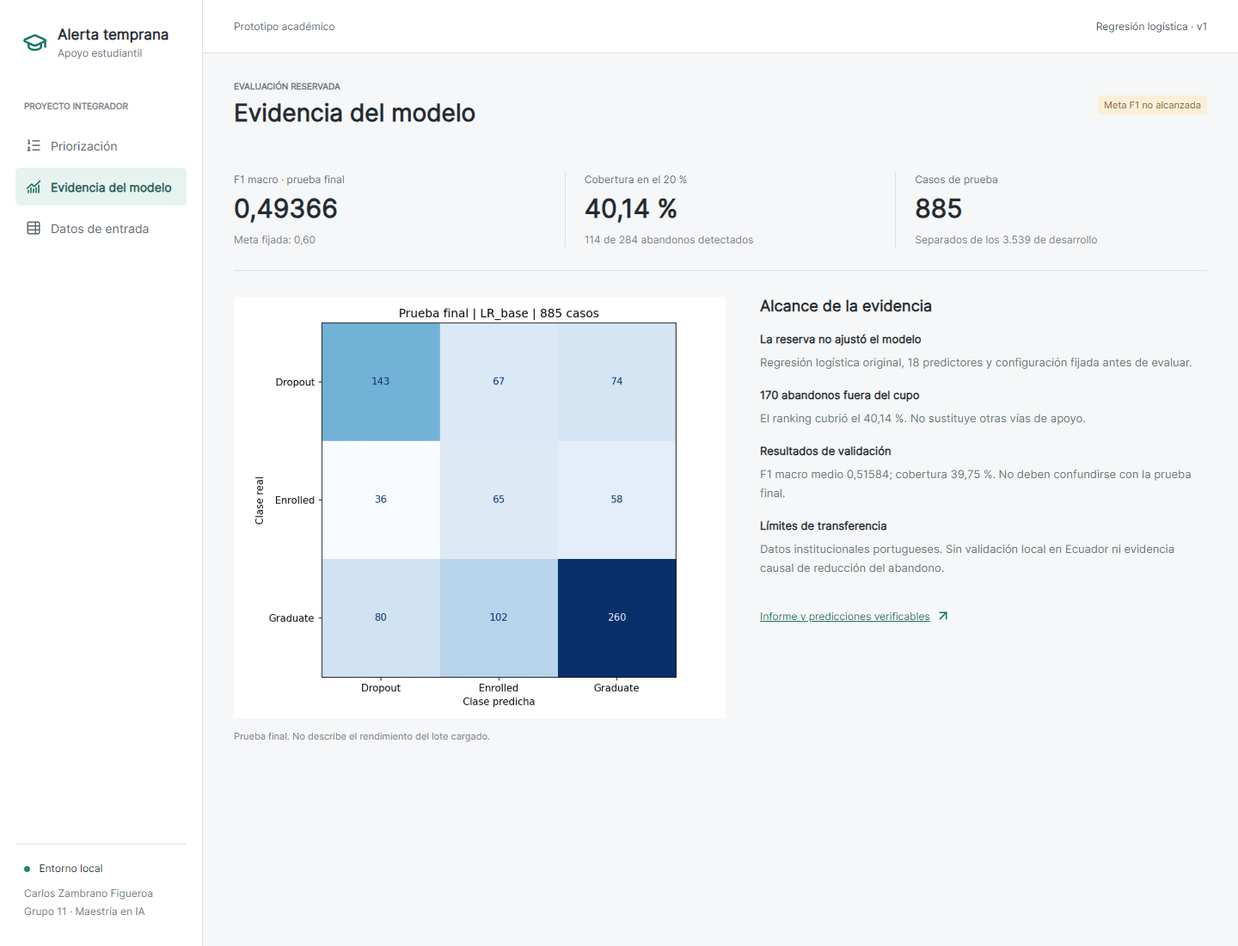
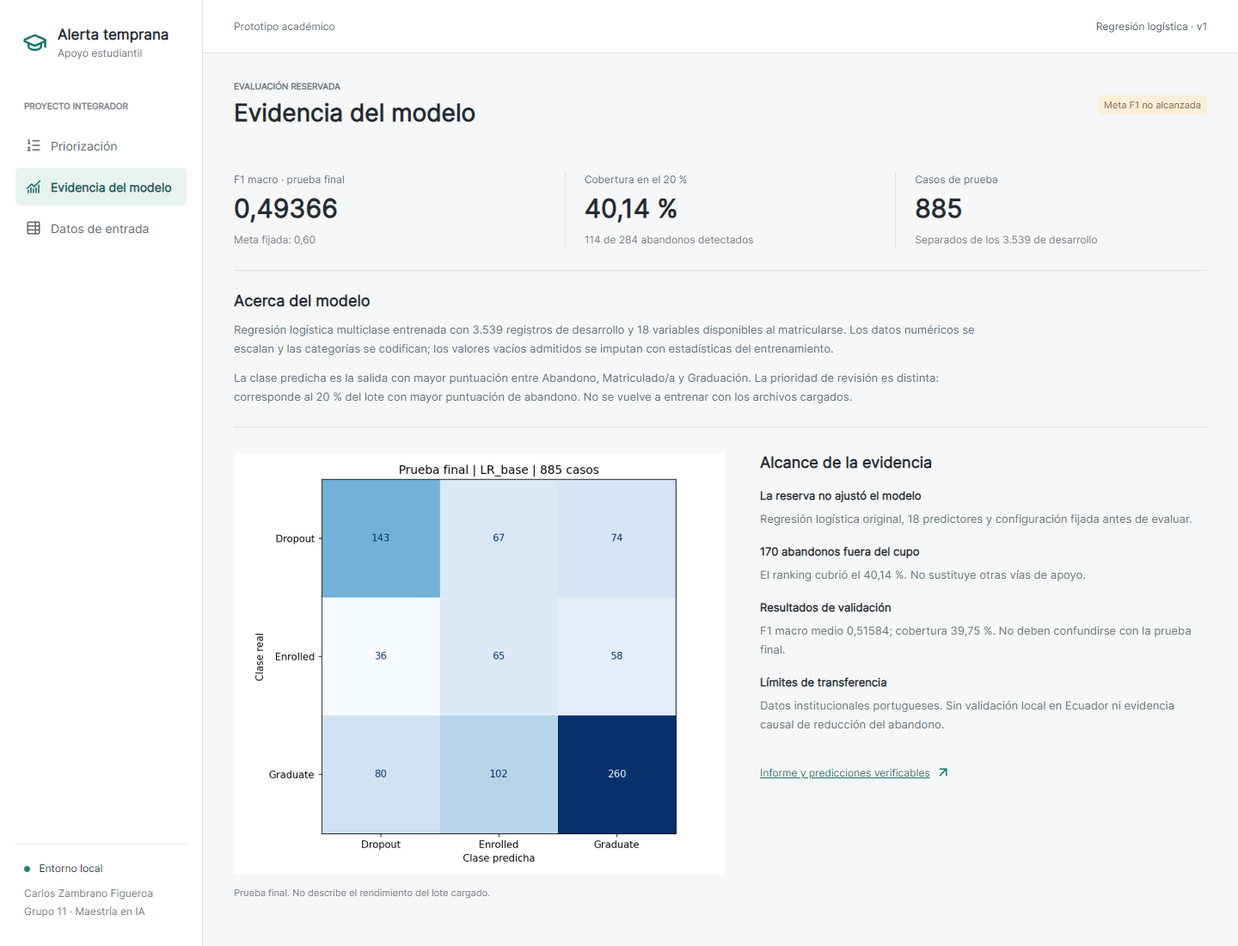
Aclara clase predicha y prepara tres casos verificables de demostracion

diff --git a/app/assets/app.css b/app/assets/app.css
@@ -1,6 +1,7 @@
 :root{font-family:Inter,Segoe UI,Arial,sans-serif;color:#252a30;background:#f5f7f8;font-size:14px;letter-spacing:0;--green:#137568;--border:#dce2e5}
 *{box-sizing:border-box}body{margin:0}button,input,a{font:inherit}button,a,input{ -webkit-tap-highlight-color:transparent}button,a{touch-action:manipulation}button{cursor:pointer}button:disabled{opacity:.4;cursor:default}button:focus-visible,a:focus-visible,input:focus-visible{outline:3px solid #4fa59b;outline-offset:3px}[hidden]{display:none!important}a{color:inherit}svg{width:18px;height:18px;flex-shrink:0}h1,h2,h3,p{margin:0}h1{font-size:28px;font-weight:650;line-height:1.25}h2{font-size:18px;font-weight:650}h3{font-size:15px}small{font-size:12px}.sidebar{position:fixed;inset:0 auto 0 0;width:236px;background:#fff;border-right:1px solid var(--border);padding:30px 18px;display:flex;flex-direction:column;z-index:2}.brand{display:flex;align-items:center;gap:12px;text-decoration:none;font-size:17px;font-weight:700;padding:0 8px}.brand>svg{width:29px;height:29px;color:var(--green)}.brand small{display:block;font-weight:400;color:#6d747d;margin-top:4px}.workspace{font-size:10px;font-weight:700;color:#7c848b;margin:48px 10px 14px}.nav{width:100%;border:0;background:transparent;color:#606971;display:flex;align-items:center;gap:11px;padding:13px 12px;text-align:left;border-radius:5px;margin:4px 0}.nav.active{background:#e7f3ef;color:#126457;font-weight:600}.sidebar-footer{margin-top:auto;padding:20px 10px 0;border-top:1px solid var(--border);font-size:12px}.sidebar-footer small{display:block;color:#747c83;line-height:1.7;margin-top:12px}.local-dot{display:inline-block;width:7px;height:7px;background:#268272;border-radius:50%;margin-right:7px}main{margin-left:236px}.topbar{height:62px;border-bottom:1px solid var(--border);padding:0 36px;display:flex;align-items:center;justify-content:space-between;background:#fff;color:#667079;font-size:12px}.version{color:#49535c}.view{max-width:1500px;padding:32px 36px 24px;margin:auto}.page-heading{display:flex;justify-content:space-between;align-items:center;gap:16px;margin-bottom:24px}.eyebrow{font-size:10px;font-weight:700;color:#68767c;margin-bottom:8px}.primary,.secondary{display:inline-flex;align-items:center;justify-content:center;gap:8px;padding:10px 14px;border:1px solid transparent;border-radius:5px;text-decoration:none;min-height:40px;font-weight:600;font-size:13px;white-space:normal;text-align:center}.primary{background:var(--green);color:#fff}.primary:hover{background:#105d53}.secondary{background:white;border-color:#ccd5d9;color:#3e4d55}.secondary:hover{background:#edf3f3}.notice{display:flex;align-items:flex-start;gap:10px;background:#f0f5f4;border-left:3px solid #6a9b90;padding:13px 16px;font-size:12px;line-height:1.6;color:#506360}.notice>svg{margin-top:1px}.notice strong{color:#344f48}.upload-band{display:flex;align-items:center;justify-content:space-between;gap:20px;padding:23px 0;border-bottom:1px solid var(--border)}.file-control{min-width:0;flex:1}.file-control label{font-size:12px;font-weight:600;display:block;margin-bottom:9px}.file-control input{max-width:100%;font-size:12px;color:#616b72}.file-control input::file-selector-button{border:1px solid #cbd5d9;background:white;padding:7px 10px;border-radius:4px;margin-right:10px;color:#34454c;cursor:pointer}.file-control small{display:block;color:#727c84;line-height:1.5;margin-top:9px}.metrics{display:grid;grid-template-columns:repeat(3,minmax(0,1fr));padding:26px 0;border-bottom:1px solid var(--border);gap:22px}.metrics>div{min-width:0;padding-left:22px;border-left:1px solid var(--border)}.metrics>div:first-child{padding-left:0;border:0}.metrics span{color:#64717b;font-size:12px}.metrics strong{font-size:30px;line-height:1.25;font-weight:600;display:block;margin:8px 0}.metrics small{display:block;color:#7a848a;line-height:1.5}.section-heading{display:flex;justify-content:space-between;align-items:center;gap:15px;padding:26px 0 18px}.section-heading p{font-size:12px;color:#7a848a;margin-top:6px}.actions{display:flex;gap:8px;align-items:center}.icon-button{width:34px;height:34px;display:inline-flex;align-items:center;justify-content:center;background:#fff;color:#55636b;border:1px solid #d6dee2;border-radius:4px;flex-shrink:0}.icon-button:hover:not(:disabled){background:#edf3f2}.table-tools{display:flex;align-items:center;gap:20px;padding:0 0 15px}.search{display:flex;align-items:center;gap:8px;border:1px solid #d7dfe2;background:#fff;padding:9px 11px;border-radius:4px;width:240px;color:#829097}.search input{width:100%;min-width:0;outline:none;border:0;background:transparent;font-size:12px}.check{display:flex;align-items:center;gap:6px;font-size:12px;color:#56656e}.check input{accent-color:var(--green)}#visible-count{margin-left:auto;color:#7a848a;font-size:12px}.table-scroll{overflow-x:auto;border:1px solid var(--border);background:#fff;border-radius:4px}table{border-collapse:collapse;width:100%;font-size:12px;text-align:left;white-space:nowrap}th{background:#f0f3f4;font-weight:600;color:#65737d;font-size:11px;padding:13px 16px;border-bottom:1px solid var(--border)}td{padding:12px 16px;border-bottom:1px solid #edf0f2;height:57px}tr:last-child td{border-bottom:0}tbody tr:hover{background:#f7faf9}tr.priority{background:#f2f9f5}td small{display:block;color:#8a949b;margin-top:3px;font-size:10px}.rank{color:#929ca3;font-variant-numeric:tabular-nums}.case-id{font-weight:600;color:#364850}.score{display:flex;align-items:center;gap:12px;font-variant-numeric:tabular-nums}.score progress{width:68px;height:5px;accent-color:#248673;border:0;border-radius:2px;background:#e6eeeb}.score progress::-webkit-progress-bar{background:#e6eeeb;border-radius:2px}.score progress::-webkit-progress-value{background:#248673;border-radius:2px}.badge{display:inline-flex;align-items:center;gap:5px;font-size:11px;padding:4px 7px;border-radius:3px;background:#e1f0e8;color:#356951}.badge.neutral{background:#f0f2f3;color:#7b858c}.badge.warning{background:#faf0d8;color:#8b641e}.pagination{display:flex;align-items:center;justify-content:space-between;padding:15px 0;color:#7c878f;font-size:12px}.pagination>div{display:flex;gap:6px}.footnote{font-size:11px;color:#7c858e;line-height:1.7;margin-top:8px}.empty{padding:36px;text-align:center;border-bottom:1px solid var(--border);color:#8c959c}.empty svg{width:28px;height:28px;margin-bottom:12px}.message,.warnings{padding:12px 16px;margin-top:16px;font-size:12px;line-height:1.6;border-radius:4px;background:#edf3f8;color:#405d73}.message.error{background:#fae9e8;color:#a33b36}.warnings{background:#fff3dc;color:#865f24}.warnings ul{margin:0;padding-left:16px}.evidence-layout{display:grid;grid-template-columns:minmax(0,1.1fr) minmax(260px,1fr);gap:40px;padding:30px 0}.evidence-layout figure{margin:0}.evidence-layout img{width:100%;height:auto;display:block}.evidence-layout figcaption{font-size:11px;color:#78828a;margin-top:14px}.findings h2{margin-bottom:20px}dt{font-weight:600;font-size:13px;margin-top:19px}dd{margin:8px 0 0;line-height:1.7;color:#6a7780;font-size:13px}.text-link{display:inline-flex;gap:6px;align-items:center;font-size:12px;color:var(--green);margin-top:22px}.data-rules{display:grid;grid-template-columns:1fr 1fr;gap:30px;padding:28px 0}.data-rules p{font-size:13px;color:#71808a;line-height:1.7;margin-top:12px}#data td{white-space:normal;overflow-wrap:anywhere}#data td:nth-child(2){font-family:Consolas,monospace;font-size:11px}.sr-only{position:absolute;width:1px;height:1px;overflow:hidden;clip:rect(0,0,0,0)}dialog{width:min(640px,calc(100% - 24px));max-height:90vh;border:1px solid #dce3e5;border-radius:7px;padding:26px;color:#29373d}dialog::backdrop{background:#1b293c77}dialog header{display:flex;justify-content:space-between;align-items:center}.detail-disclaimer{font-size:12px;color:#7b6d51;line-height:1.5;margin:18px 0}.score-list{display:flex;gap:24px;padding:16px 0 24px}.score-list span{display:block;font-size:12px;color:#6c7c84}.score-list strong{font-size:22px;display:block;margin-top:7px}.feature-list{display:grid;grid-template-columns:1fr auto;margin:10px 0}.feature-list dt,.feature-list dd{border-bottom:1px solid #e6ecee;padding:9px 0;margin:0;font-size:12px}.feature-list dd{font-variant-numeric:tabular-nums;text-align:right}.feature-list dt{font-weight:400;color:#6a7780}
 .table-scroll{position:relative}
+.model-description{padding:24px 0;border-bottom:1px solid var(--border)}.model-description p{max-width:900px;font-size:13px;line-height:1.7;color:#63727b;margin-top:12px}.prediction-summary{display:grid;grid-template-columns:1fr 1fr;gap:20px;padding:20px 0 16px;border-bottom:1px solid var(--border)}.prediction-summary span{display:block;font-size:12px;color:#6a7780}.prediction-summary strong{display:block;font-size:17px;margin-top:8px;overflow-wrap:anywhere}.example-downloads{padding:0 0 24px}.example-downloads h2{margin-bottom:14px}
 @media(min-width:1550px){.view{padding-left:52px;padding-right:52px}}
 @media(max-width:1050px){.sidebar{width:205px;padding:26px 12px}.brand{font-size:15px}main{margin-left:205px}.view{padding:25px 23px}.topbar{padding:0 23px}.page-heading{align-items:flex-start}.page-heading .secondary{font-size:12px}.table-tools{gap:12px}h1{font-size:25px}.evidence-layout{gap:24px}}
 @media(max-width:760px){.sidebar{position:static;width:100%;padding:15px 16px 0;border-right:0;border-bottom:1px solid var(--border)}.brand{padding:0;font-size:16px}.brand small{display:inline;margin-left:9px}.brand>svg{width:25px;height:25px}.workspace,.sidebar-footer{display:none}nav{display:flex;margin-top:16px;gap:5px;overflow:auto}.nav{justify-content:center;flex:1;min-width:0;margin:0;border-radius:4px 4px 0 0;font-size:11px;padding:11px 7px;gap:6px}.nav svg{width:16px;height:16px}.nav.active{border-bottom:2px solid var(--green)}main{margin:0}.topbar{height:40px;padding:0 16px;font-size:10px}.view{padding:24px 16px}.page-heading{flex-direction:column;gap:16px;margin-bottom:18px}h1{font-size:25px}.page-heading>button{align-self:flex-start}.notice{font-size:11px;padding:12px}.upload-band{flex-direction:column;align-items:stretch;gap:14px}.upload-band .primary{align-self:flex-start}.metrics{gap:10px;padding:20px 0}.metrics>div{padding-left:10px}.metrics span{font-size:10px}.metrics strong{font-size:25px}.metrics small{font-size:10px}.table-tools{flex-wrap:wrap;gap:12px}.search{width:100%}.check{flex:1}#visible-count{font-size:11px}th,td{padding-left:12px;padding-right:12px}.evidence-layout,.data-rules{grid-template-columns:1fr}.evidence-layout{gap:25px}.actions{flex-wrap:wrap}#data .actions a{font-size:12px}.feature-list{grid-template-columns:minmax(0,1fr) auto;gap:0 12px}.feature-list dt{overflow-wrap:anywhere}.score-list{gap:17px}.score-list strong{font-size:19px}}

diff --git a/app/templates/index.html b/app/templates/index.html
@@ -47,15 +47,17 @@
     <section class="view" id="evidence" hidden>
       <div class="page-heading"><div><p class="eyebrow">EVALUACIÓN RESERVADA</p><h1>Evidencia del modelo</h1></div><span class="badge warning">Meta F1 no alcanzada</span></div>
       <div class="metrics"><div><span>F1 macro · prueba final</span><strong id="final-f1">—</strong><small>Meta fijada: 0,60</small></div><div><span>Cobertura en el 20 %</span><strong id="final-coverage">—</strong><small>114 de 284 abandonos detectados</small></div><div><span>Casos de prueba</span><strong>885</strong><small>Separados de los 3.539 de desarrollo</small></div></div>
+      <div class="model-description"><h2>Acerca del modelo</h2><p>Regresión logística multiclase entrenada con 3.539 registros de desarrollo y 18 variables disponibles al matricularse. Los datos numéricos se escalan y las categorías se codifican; los valores vacíos admitidos se imputan con estadísticas del entrenamiento.</p><p>La clase predicha es la salida con mayor puntuación entre Abandono, Matriculado/a y Graduación. La prioridad de revisión es distinta: corresponde al 20 % del lote con mayor puntuación de abandono. No se vuelve a entrenar con los archivos cargados.</p></div>
       <div class="evidence-layout"><figure><img src="/evidence/confusion.png" alt="Matriz de confusión del modelo final: clases reales frente a predichas" width="1050" height="900"><figcaption>Prueba final. No describe el rendimiento del lote cargado.</figcaption></figure><div class="findings"><h2>Alcance de la evidencia</h2><dl><dt>La reserva no ajustó el modelo</dt><dd>Regresión logística original, 18 predictores y configuración fijada antes de evaluar.</dd><dt>170 abandonos fuera del cupo</dt><dd>El ranking cubrió el 40,14 %. No sustituye otras vías de apoyo.</dd><dt>Resultados de validación</dt><dd>F1 macro medio 0,51584; cobertura 39,75 %. No deben confundirse con la prueba final.</dd><dt>Límites de transferencia</dt><dd>Datos institucionales portugueses. Sin validación local en Ecuador ni evidencia causal de reducción del abandono.</dd></dl><a class="text-link" href="https://github.com/eduzamf/alerta-temprana-abandono-estudiantil/blob/main/docs/evaluacion_final.md" target="_blank" rel="noopener noreferrer">Informe y predicciones verificables <i data-lucide="arrow-up-right"></i></a></div></div>
     </section>
     <section class="view" id="data" hidden>
       <div class="page-heading"><div><p class="eyebrow">CONTRATO DE ENTRADA</p><h1>Datos del lote</h1></div><div class="actions"><a class="secondary" href="/api/template"><i data-lucide="download"></i> Plantilla CSV</a><a class="primary" href="/api/sample"><i data-lucide="download"></i> Muestra pública</a></div></div>
       <div class="notice"><i data-lucide="lock-keyhole"></i><p><strong>Sin nombres, correos ni identificaciones.</strong> No se admiten columnas adicionales ni datos académicos posteriores a la matrícula. El archivo se procesa en memoria; no se guarda en el repositorio.</p></div>
       <div class="data-rules"><div><h2>Condiciones del archivo</h2><p>UTF-8, separador coma o punto y coma, decimal con punto. Celdas vacías permitidas hasta el 20 % por fila. Las 18 columnas son obligatorias.</p></div><div><h2>Calidad antes de priorizar</h2><p>Se rechazan códigos categóricos no vistos, infinitos y valores numéricos fuera de los límites admitidos. Las advertencias requieren revisión; no garantizan equivalencia de escalas.</p></div></div>
+      <div class="example-downloads"><h2>Casos de demostración</h2><div class="actions"><a class="secondary" href="/api/sample"><i data-lucide="download"></i> Lote válido</a><a class="secondary" href="/api/sample/missing"><i data-lucide="download"></i> Una nota vacía</a><a class="secondary" href="/api/sample/invalid"><i data-lucide="download"></i> Carrera inválida</a></div></div>
       <div class="table-scroll"><table><thead><tr><th>Variable</th><th>Columna CSV</th><th>Valores admitidos</th></tr></thead><tbody id="schema"></tbody></table></div>
     </section>
   </main>
-  <dialog id="detail"><header><div><p class="eyebrow">REVISIÓN INDIVIDUAL</p><h2 id="detail-title"></h2></div><button class="icon-button" id="close-detail" aria-label="Cerrar detalle" title="Cerrar"><i data-lucide="x"></i></button></header><p class="detail-disclaimer">Puntuaciones del modelo, no diagnóstico ni probabilidad calibrada.</p><div id="detail-scores" class="score-list"></div><h3>Datos de entrada</h3><dl id="detail-features" class="feature-list"></dl></dialog>
+  <dialog id="detail"><header><div><p class="eyebrow">REVISIÓN INDIVIDUAL</p><h2 id="detail-title"></h2></div><button class="icon-button" id="close-detail" aria-label="Cerrar detalle" title="Cerrar"><i data-lucide="x"></i></button></header><div class="prediction-summary"><div><span>Clase predicha</span><strong id="detail-predicted"></strong></div><div><span>Prioridad de revisión</span><strong id="detail-priority"></strong></div></div><p class="detail-disclaimer">Una clase predicha no confirma el resultado del estudiante. La prioridad depende del cupo del lote. Puntuaciones no calibradas.</p><div id="detail-scores" class="score-list"></div><h3>Datos de entrada</h3><dl id="detail-features" class="feature-list"></dl></dialog>
 </body>
 </html>

diff --git a/app/assets/app.js b/app/assets/app.js
@@ -121,6 +121,8 @@ function render() {
 }
 function showDetail(row) {
   $("#detail-title").textContent = row.id + " · fila " + row.source_row;
+  $("#detail-predicted").textContent = classLabels[row.predicted];
+  $("#detail-priority").textContent = row.selected ? "Priorizado" : "Fuera del cupo";
   $("#detail-scores").replaceChildren();
   for (const [label, score] of Object.entries(row.scores)) {
     const item = node("div");
@@ -129,7 +131,7 @@ function showDetail(row) {
   }
   $("#detail-features").replaceChildren();
   for (const [key, value] of Object.entries(row.features)) {
-    $("#detail-features").append(node("dt", labels[key] || key), node("dd", value === null ? "Vacío · imputado" : number(value, Number.isInteger(value) ? 0 : 2)));
+    $("#detail-features").append(node("dt", labels[key] || key), node("dd", value === null ? "Vacío · imputado" : Number.isInteger(value) ? String(value) : number(value, 2)));
   }
   $("#detail").showModal();
 }

diff --git a/tests/test_app.py b/tests/test_app.py
@@ -9,6 +9,7 @@ from app.app import app
 from src.data_processing import ROOT
 from src.finalize import MODEL, digest
 from src.inference import InputError, analyze, context, demo, parse_csv, validate
+from src.demo_cases import FILES, case_frame
 
 
 class AppTests(unittest.TestCase):
@@ -105,6 +106,25 @@ class AppTests(unittest.TestCase):
             response.close()
         self.assertEqual(self.client.get("/").headers["X-Frame-Options"], "DENY")
         self.assertEqual(self.client.get("/", base_url="http://evil.example").status_code, 400)
+
+    def test_demo_case_files_reproduce(self):
+        for kind, filename in FILES.items():
+            frame = pd.read_csv(ROOT / "data/examples" / filename)
+            pd.testing.assert_frame_equal(frame, case_frame(kind).reset_index(drop=True), check_dtype=False)
+
+    def test_demo_missing_case_accepted(self):
+        response = self.client.get("/api/sample/missing")
+        self.assertEqual(response.status_code, 200)
+        result = self.post(response.data)
+        self.assertEqual(result.status_code, 200)
+        self.assertEqual(result.json["missing_cells"], 1)
+        self.assertTrue(result.json["warnings"])
+
+    def test_demo_invalid_case_rejected(self):
+        response = self.client.get("/api/sample/invalid")
+        self.assertEqual(response.status_code, 200)
+        self.assertEqual(self.post(response.data).status_code, 400)
+        self.assertEqual(self.client.get("/api/sample/unknown").status_code, 404)
 
 
 if __name__ == "__main__":

diff --git a/app/app.py b/app/app.py
@@ -9,6 +9,7 @@ from werkzeug.exceptions import HTTPException
 from src.data_processing import ROOT
 from src.inference import InputError, analyze, context, demo, parse_csv, template_csv
 from src.data_processing import FEATURES, CATEGORICAL
+from src.demo_cases import FILES, case_frame
 
 app = Flask(__name__, static_folder="assets", template_folder="templates")
 app.config.update(MAX_CONTENT_LENGTH=256000, MAX_FORM_MEMORY_SIZE=256000,
@@ -75,6 +76,14 @@ def sample():
 @app.get("/evidence/confusion.png")
 def confusion():
     return send_file(ROOT / "results/figures/final_test_confusion.png")
+
+
+@app.get("/api/sample/<kind>")
+def demonstration_file(kind):
+    if kind not in FILES:
+        return jsonify(error="Caso de demostracion no disponible."), 404
+    return Response(case_frame(kind).to_csv(index=False), mimetype="text/csv",
+                    headers={"Content-Disposition": f"attachment; filename={FILES[kind]}"})
 
 
 @app.post("/api/analyze")

diff --git a/src/demo_cases.py b/src/demo_cases.py
@@ -1,0 +1,30 @@
+"""Reproducible demonstration inputs derived only from public development rows."""
+import numpy as np
+
+from .data_processing import ROOT
+from .inference import demo
+
+FILES = {"valid": "01_lote_valido.csv", "missing": "02_nota_vacia.csv",
+         "invalid": "03_carrera_invalida.csv"}
+
+
+def case_frame(kind):
+    if kind not in FILES:
+        raise ValueError("Unknown demonstration case")
+    frame = demo().copy()
+    if kind == "missing":
+        frame.loc[frame.index[0], "Admission grade"] = np.nan
+    elif kind == "invalid":
+        frame.loc[frame.index[0], "Course"] = 999999
+    return frame
+
+
+def run():
+    folder = ROOT / "data/examples"
+    folder.mkdir(exist_ok=True)
+    for kind, filename in FILES.items():
+        case_frame(kind).to_csv(folder / filename, index=False)
+
+
+if __name__ == "__main__":
+    run()

diff --git a/docs/manual_usuario.md b/docs/manual_usuario.md
@@ -35,6 +35,8 @@ persistente de intervenciones.
 3. Activar Solo priorizados o buscar por codigo CASO. Estos filtros no recalculan
    el cupo. La paginacion muestra hasta 15 casos por pagina.
 4. Abrir la flecha de un caso para ver las tres puntuaciones y las 18 entradas.
+   El detalle distingue Clase predicha (la salida de mayor puntuacion) de
+   Prioridad de revision (pertenencia al cupo del 20% del lote).
    Cerrar con la X o Escape. Las celdas vacias se identifican como imputadas;
    no se modifica manualmente el modelo.
 5. Usar el icono de descarga para exportar **todo el lote**, no solo la pagina
@@ -50,6 +52,11 @@ entre 0 y 1, **no una probabilidad calibrada**. Estar fuera del cupo no descarta
 necesidad de apoyo; debe existir una via abierta de solicitud independiente.
 
 ## Preparacion y carga de CSV
+
+![Detalle de clase predicha y prioridad](images/app_detail.png)
+
+La clase no es un diagnostico ni confirma el desenlace. El ranking y la clase
+son salidas distintas: la primera depende del resto del lote y del cupo.
 
 En Datos de entrada se puede descargar la plantilla de cabeceras o una muestra
 publica completa para comprobar el flujo. La plantilla vacia no se puede analizar
@@ -80,6 +87,10 @@ que se analice un lote valido. Los mensajes de advertencia de imputacion o rango
 no constituyen una garantia de validez.
 
 ## Evidencia del modelo
+
+Acerca del modelo describe la regresion multiclase, sus 18 entradas y el
+preprocesamiento. Distingue el entrenamiento inicial de la inferencia con
+archivos nuevos, que no modifica el modelo.
 
 La segunda seccion presenta la prueba final historica: F1 macro 0,49366,
 cobertura 40,14%, 114 abandonos detectados de 284. Son resultados de 885 casos
@@ -132,7 +143,7 @@ a estudiantes; las salvaguardas institucionales descritas son propuestas.
 
 ## Verificacion
 
-90 pruebas Python y un recorrido de navegador con Playwright comprueban muestra,
+93 pruebas Python y un recorrido de navegador con Playwright comprueban muestra,
 carga valida, rechazo de errores, concordancia con el modelo, filtros, paginacion,
 detalle, descarga, evidencia y ausencia de desbordamiento de pagina en movil.
 
@@ -147,3 +158,19 @@ Las dependencias de navegador se instalan con npm install desde la raiz
 Permite APP_URL y BROWSER_CHANNEL para cambiar direccion o navegador compatible.
 Las capturas de este manual proceden de ese recorrido. Para incidencias tecnicas
 del prototipo, registrar un issue en el repositorio sin adjuntar datos personales.
+
+## Tres casos para la grabacion
+
+Los archivos estan en [data/examples](../data/examples/README.md) y en los enlaces
+de Casos de demostracion de Datos de entrada. Se reproducen con
+`python -m src.demo_cases`.
+
+| Caso | Resultado esperado | Evidencia en pantalla |
+|---|---|---|
+| Lote valido | 40 registros, 8 priorizados | Lista, detalle, clase y puntuaciones |
+| Una nota vacia | Lote aceptado con 1 celda faltante | Advertencia de imputacion |
+| Carrera invalida | Rechazo por codigo Course desconocido | Mensaje, lista vacia y exportacion deshabilitada |
+
+La ausencia de nota y el codigo invalido fueron introducidos para la
+demostracion. No son nuevos datos de evaluacion ni respaldan cambios en F1.
+La grabacion debe mostrar resultados reales de la interfaz y no una simulacion.

diff --git a/README.md b/README.md
@@ -49,7 +49,7 @@ results/metrics/       Métricas verificables
 results/reports/       Reportes derivados
 ```
 
-Los archivos `.gitkeep` permiten registrar carpetas inicialmente vacías. Los experimentos, el artefacto, la evaluación final y la aplicación local están implementados, con 90 pruebas Python y un recorrido automatizado de navegador. Los cinco notebooks están ejecutados. La interfaz usa el modelo fijo, sin entrenar con los archivos cargados.
+Los archivos `.gitkeep` permiten registrar carpetas inicialmente vacías. Los experimentos, el artefacto, la evaluación final y la aplicación local están implementados, con 93 pruebas Python y un recorrido automatizado de navegador. Los cinco notebooks están ejecutados. La interfaz usa el modelo fijo, sin entrenar con los archivos cargados.
 
 ## Documentación
 
@@ -108,7 +108,11 @@ python -m venv .venv
 
 En otros sistemas usar `.venv/bin/python`. La auditoría genera `results/metrics/data_audit.json`. El EDA genera `results/metrics/eda.json`, siete figuras y `docs/analisis_datos.md`; editar la plantilla en `src/eda.py` si se modifica esa documentación. La auditoría de preprocesamiento genera `results/metrics/preprocessing_audit.json`. El entrenamiento guarda predicciones OOF, registros y métricas en `results/metrics/baseline_*`; el reporte y sus tres gráficos se generan con `src.baseline_report`.
 
-La optimización genera `results/metrics/optimization_*`; `src.optimization_report` genera cinco figuras y la sección de resultados de `docs/optimizacion.md`. La auditoría genera `results/metrics/fairness_*` y su reporte. La robustez genera `results/metrics/stress_*`, un gráfico y los resultados en `docs/robustez.md`. Las 90 pruebas cubren también el artefacto, la evaluación final y los controles de la aplicación; no certifican seguridad ni validez institucional. Los resultados de desarrollo se regeneran con `src.train`, `src.optimize`, `src.fairness` y `src.stress`. `src.finalize` verifica el modelo existente sin sobrescribirlo. `src.final_evaluation` verifica la prueba guardada; no vuelve a predecir si ya existe.
+La optimización genera `results/metrics/optimization_*`; `src.optimization_report` genera cinco figuras y la sección de resultados de `docs/optimizacion.md`. La auditoría genera `results/metrics/fairness_*` y su reporte. La robustez genera `results/metrics/stress_*`, un gráfico y los resultados en `docs/robustez.md`. Las 93 pruebas cubren también el artefacto, la evaluación final y los controles de la aplicación; no certifican seguridad ni validez institucional. Los resultados de desarrollo se regeneran con `src.train`, `src.optimize`, `src.fairness` y `src.stress`. `src.finalize` verifica el modelo existente sin sobrescribirlo. `src.final_evaluation` verifica la prueba guardada; no vuelve a predecir si ya existe.
+
+Los [tres casos de demostración](data/examples/README.md) permiten mostrar un lote
+válido, una nota ausente admitida con advertencia y un código inválido rechazado.
+Se regeneran con `python -m src.demo_cases` y se descargan desde la aplicación.
 
 Para las pruebas opcionales de navegador, instalar Node, Chrome y las dependencias
 de desarrollo con `npm install`; iniciar el servidor y ejecutar `npm run test:browser`.

diff --git a/data/examples/README.md b/data/examples/README.md
@@ -1,0 +1,16 @@
+# Casos para demostrar la interfaz
+
+Los tres archivos parten de las mismas 40 filas publicas de desarrollo usadas
+por la muestra de la aplicacion. No contienen Target ni identificadores.
+Conservan la licencia y atribucion del [dataset UCI](../README.md).
+
+1. 01_lote_valido.csv: sin alteraciones, 40 casos y 8 priorizados.
+2. 02_nota_vacia.csv: se vacia Admission grade del primer registro. La aplicacion
+   acepta el lote, informa una celda faltante e imputa con el pipeline entrenado.
+3. 03_carrera_invalida.csv: se cambia Course del primer registro por 999999.
+   La aplicacion rechaza el lote y no genera resultados exportables.
+
+Las dos alteraciones son deliberadas para probar la interfaz, no datos
+observados ni nuevos experimentos de rendimiento. No usar estos archivos para
+recalcular F1. Generacion reproducible: python -m src.demo_cases.
+Tambien se descargan desde Datos de entrada en la aplicacion.
